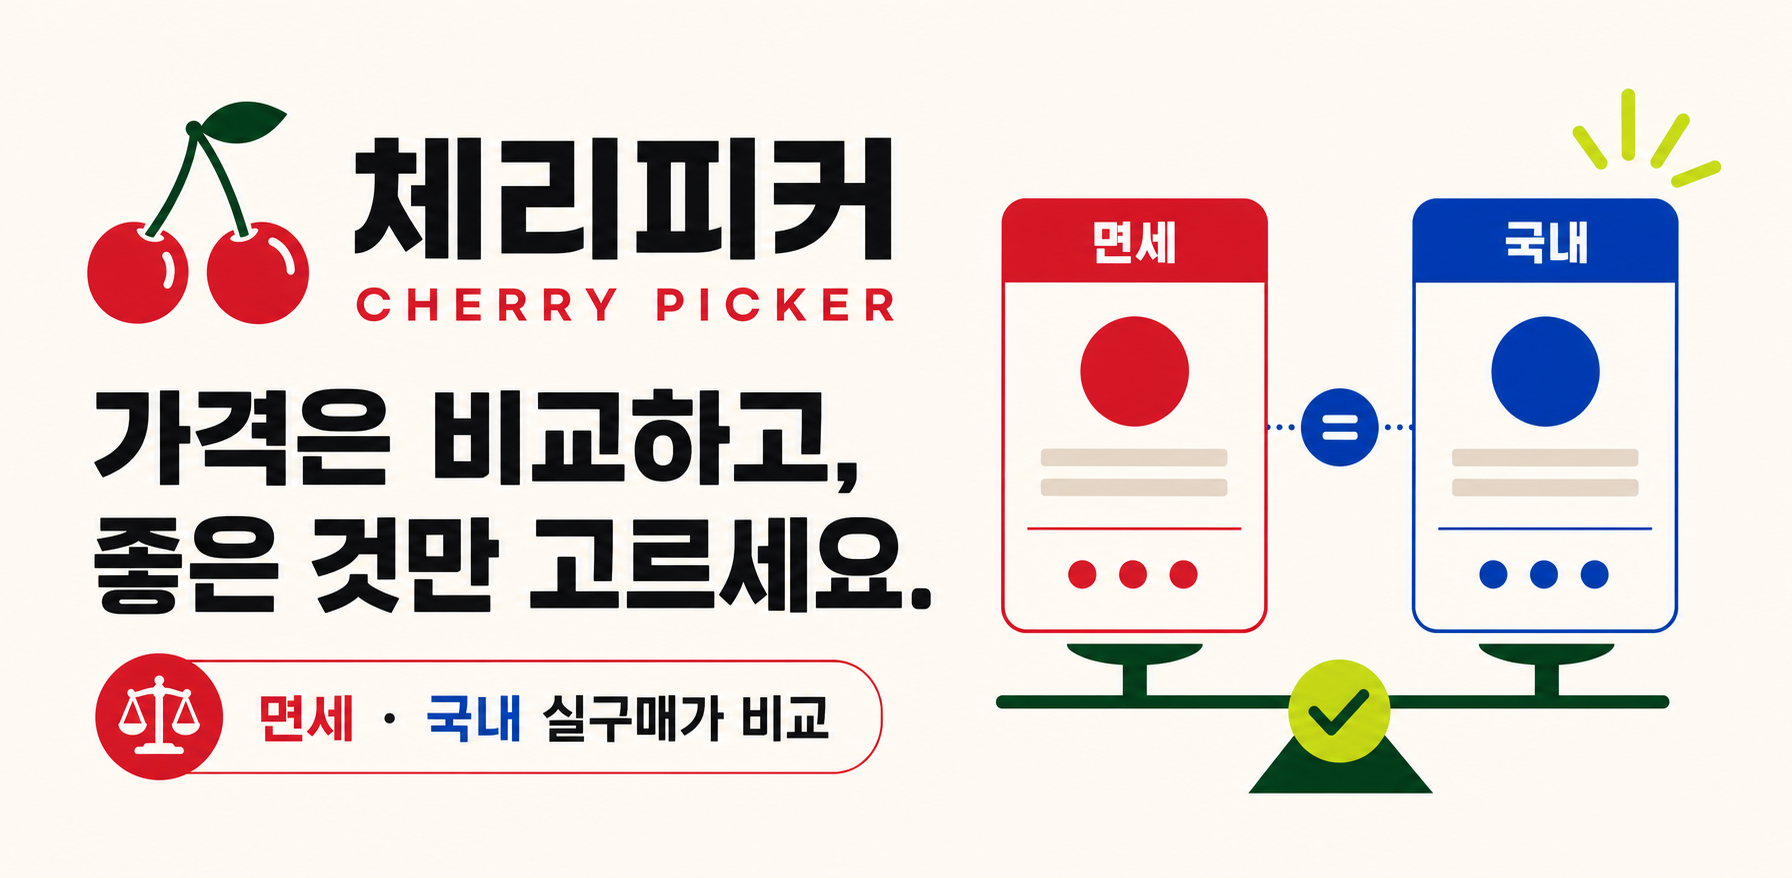
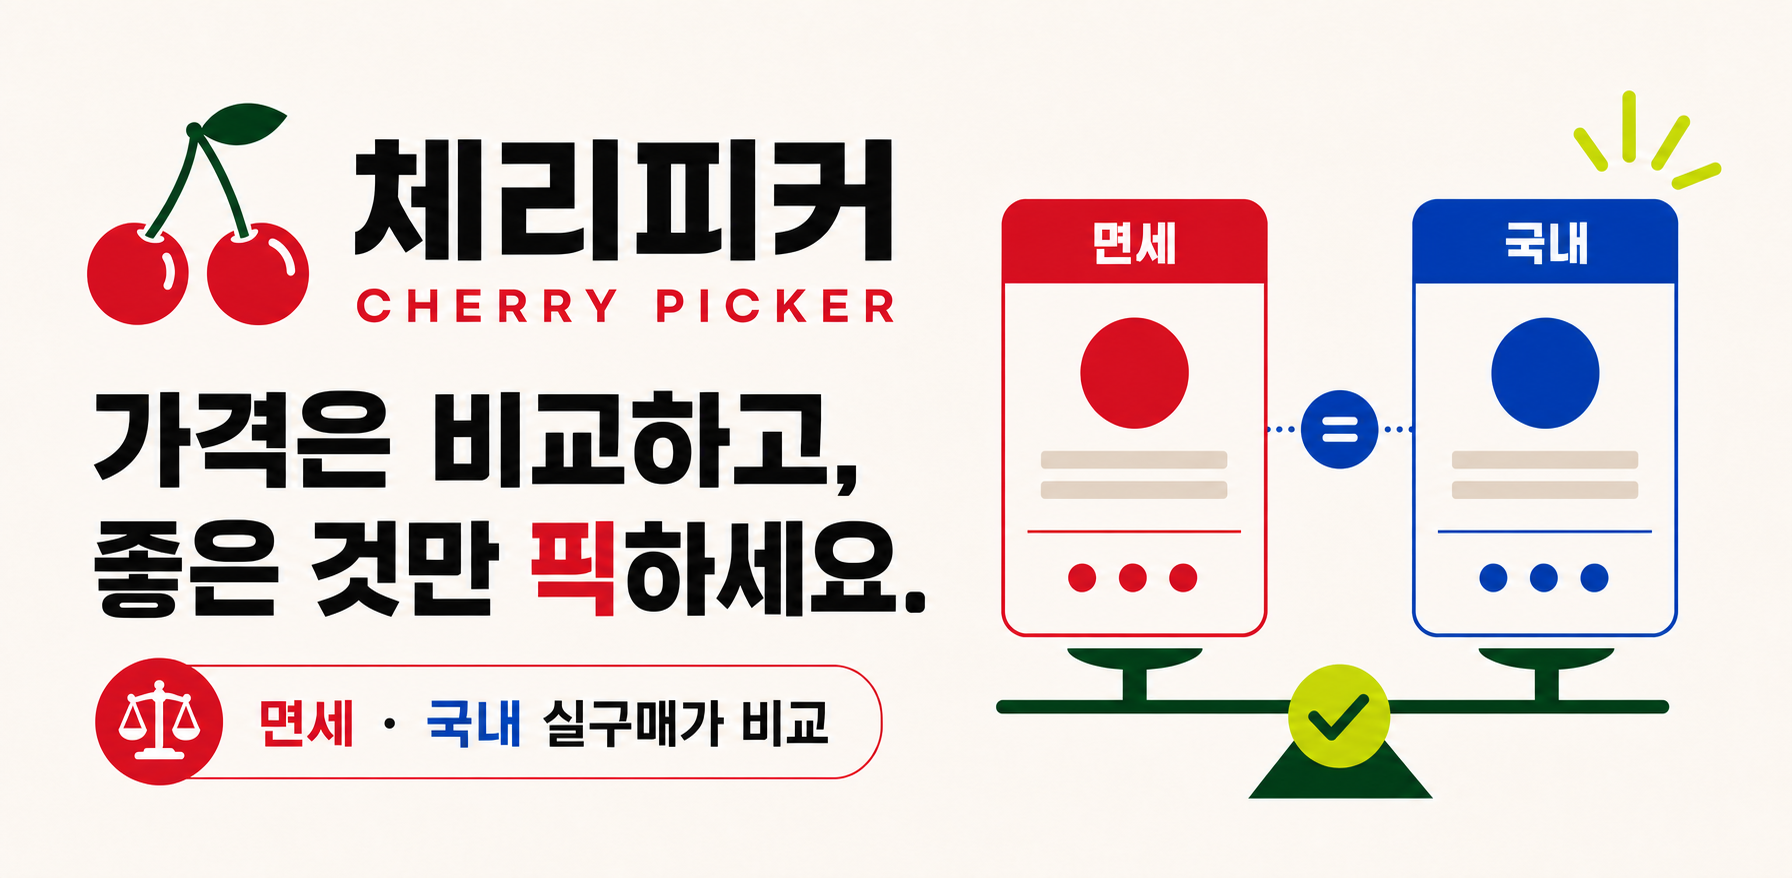
Highlight the Cherry Picker tagline

diff --git a/app/layout.tsx b/app/layout.tsx
@@ -4,7 +4,7 @@ import { getSiteOrigin } from "./lib/site-origin";
 
 const title = "체리피커 — 면세·리테일 실구매가 비교";
 const description =
-  "가격은 비교하고, 좋은 것만 고르세요. 배송비와 단위가격을 반영해 온라인 면세점과 국내 리테일 가격을 같은 기준으로 비교합니다.";
+  "가격은 비교하고, 좋은 것만 픽하세요. 배송비와 단위가격을 반영해 온라인 면세점과 국내 리테일 가격을 같은 기준으로 비교합니다.";
 const adsenseClient = process.env.NEXT_PUBLIC_ADSENSE_CLIENT?.startsWith(
   "ca-pub-",
 )
@@ -31,7 +31,7 @@ export async function generateMetadata(): Promise<Metadata> {
           url: socialImage,
           width: 1792,
           height: 878,
-          alt: "체리피커 — 가격은 비교하고, 좋은 것만 고르세요",
+          alt: "체리피커 — 가격은 비교하고, 좋은 것만 픽하세요",
         },
       ],
     },

diff --git a/app/page.tsx b/app/page.tsx
@@ -601,7 +601,7 @@ export default function Home() {
           <h1>
             가격은 비교하고,
             <br />
-            좋은 것만 고르세요.
+            좋은 것만 <span className="cherry-pick">픽</span>하세요.
           </h1>
         </div>
         <p className="hero-copy">
@@ -1314,7 +1314,10 @@ export default function Home() {
             <span className="brand-word">CHERRY</span>
             <span className="brand-country">PICKER</span>
           </div>
-          <small>가격은 비교하고, 좋은 것만 고르세요.</small>
+          <small>
+            가격은 비교하고, 좋은 것만{" "}
+            <span className="cherry-pick">픽</span>하세요.
+          </small>
         </div>
         <div className="footer-copy">
           <nav aria-label="사이트 정책">

diff --git a/app/globals.css b/app/globals.css
@@ -210,6 +210,10 @@ a:focus-visible {
   font-weight: 860;
 }
 
+.cherry-pick {
+  color: var(--cherry);
+}
+
 .hero-copy {
   max-width: 235px;
   margin: 0 0 8px;

diff --git a/README.md b/README.md
@@ -1,6 +1,6 @@
 # 체리피커 · CHERRY PICKER
 
-가격은 비교하고, 좋은 것만 고르세요. 면세점과 국내 리테일 상품을 최종
+가격은 비교하고, 좋은 것만 픽하세요. 면세점과 국내 리테일 상품을 최종
 결제가와 단위가격 기준으로 비교하는 한국어 가격 가이드입니다. 현재 기본 상품
 가격은 비교 방식을 설명하기 위한 예시이며, 사용자가 직접 입력한 결제 화면
 가격은 해당 브라우저에만 저장됩니다.
